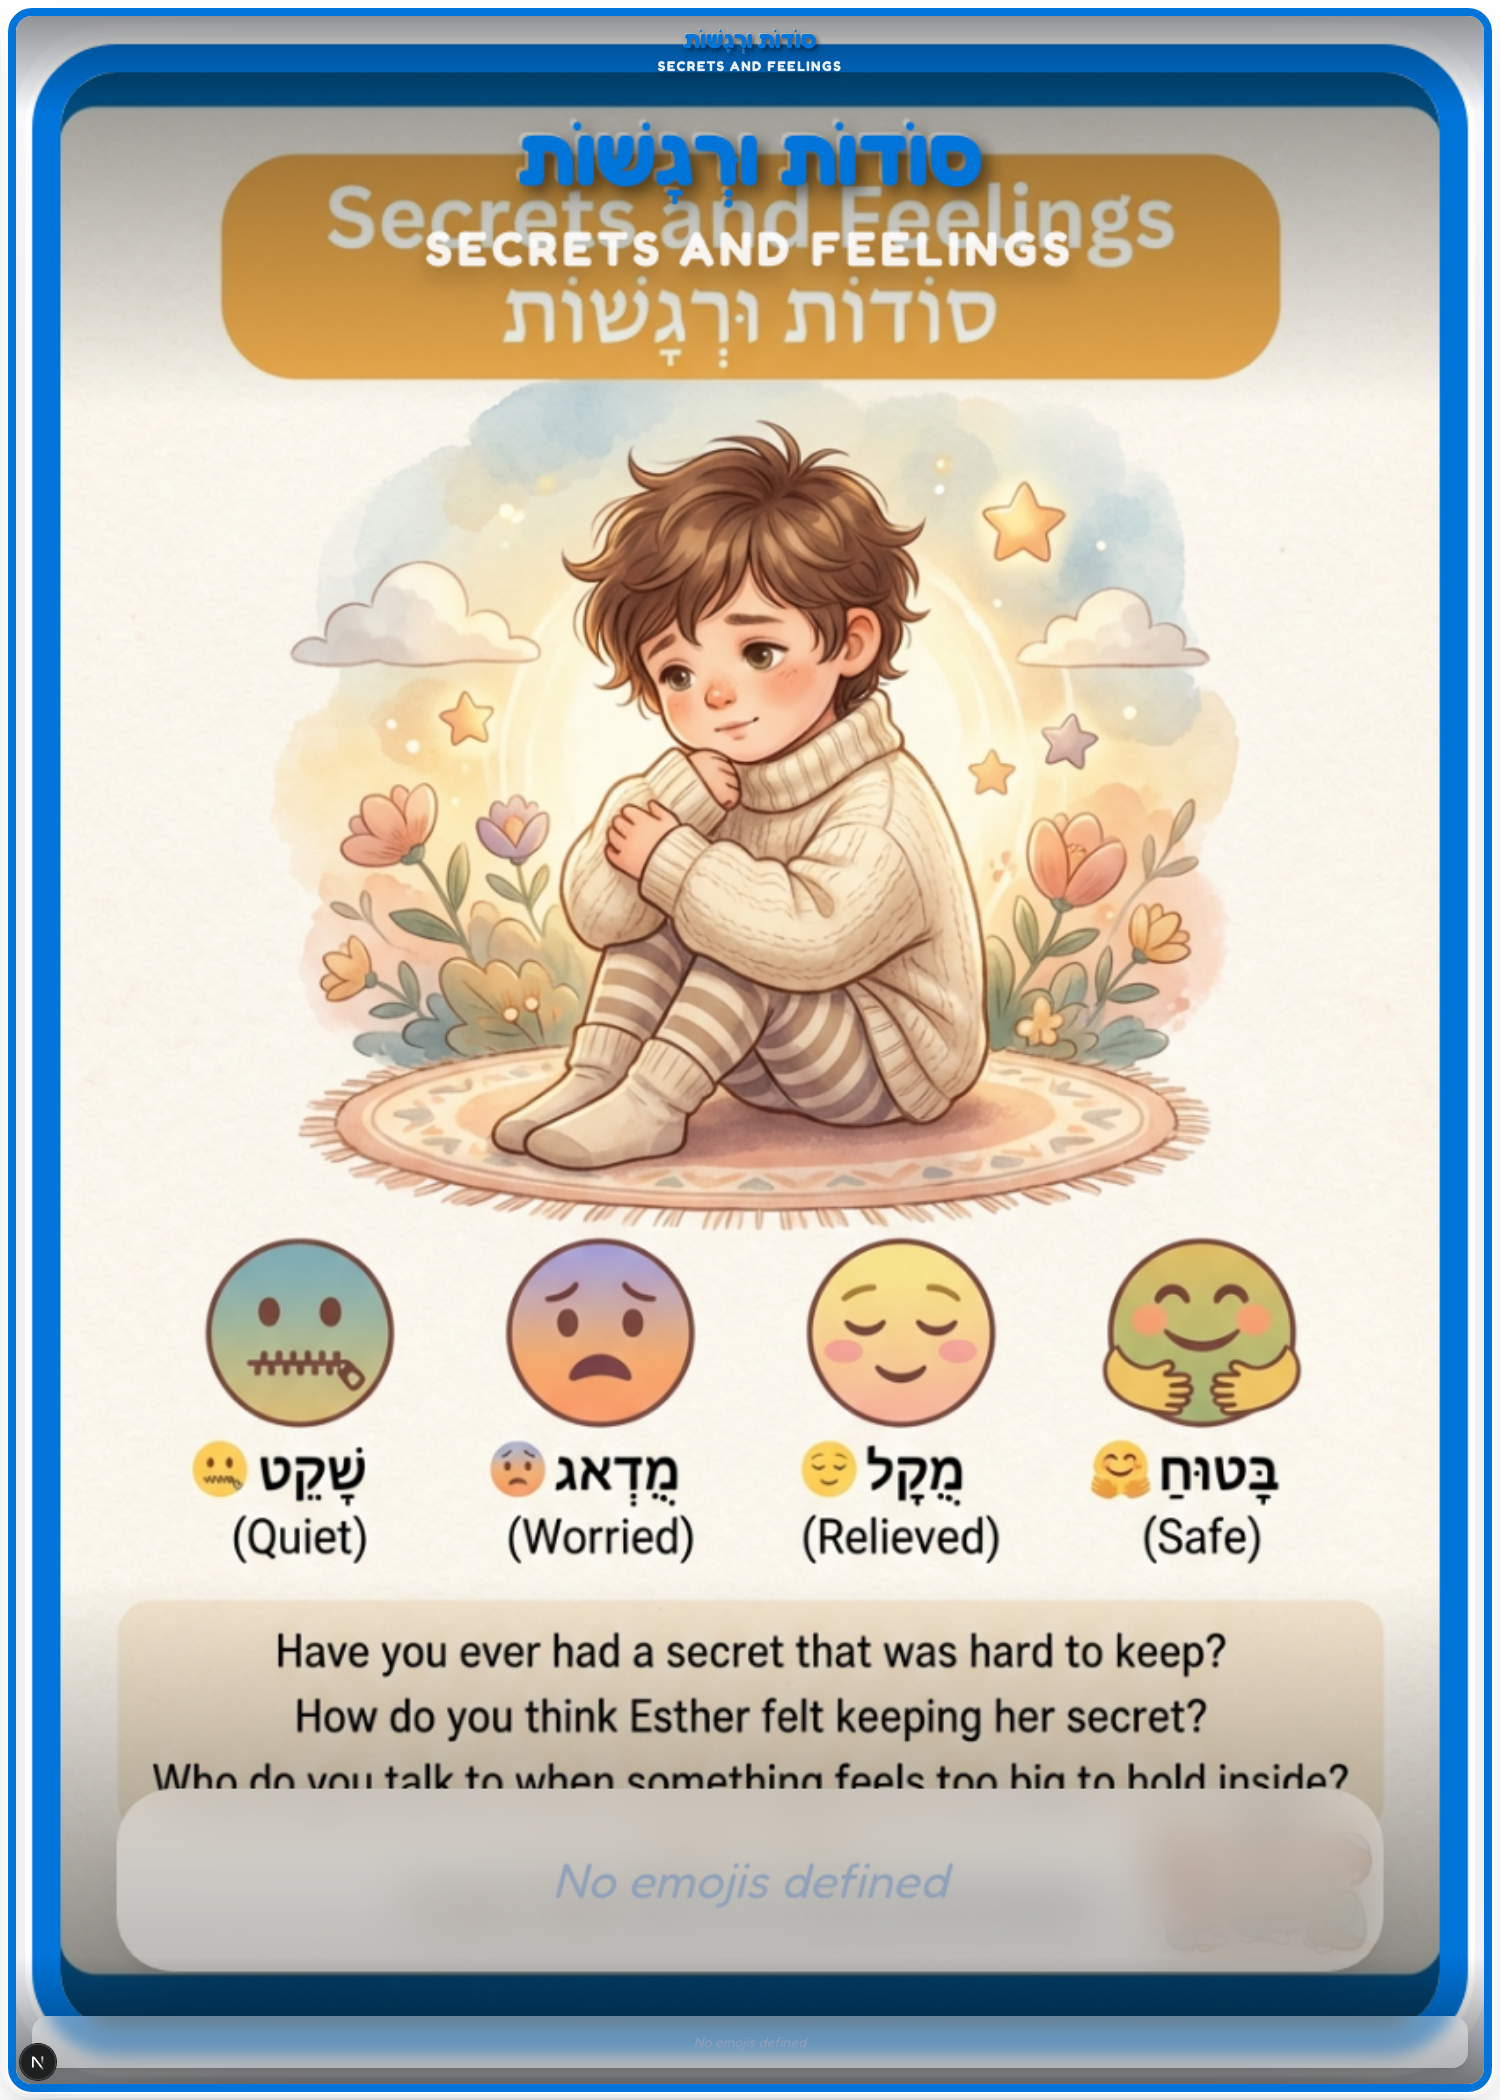
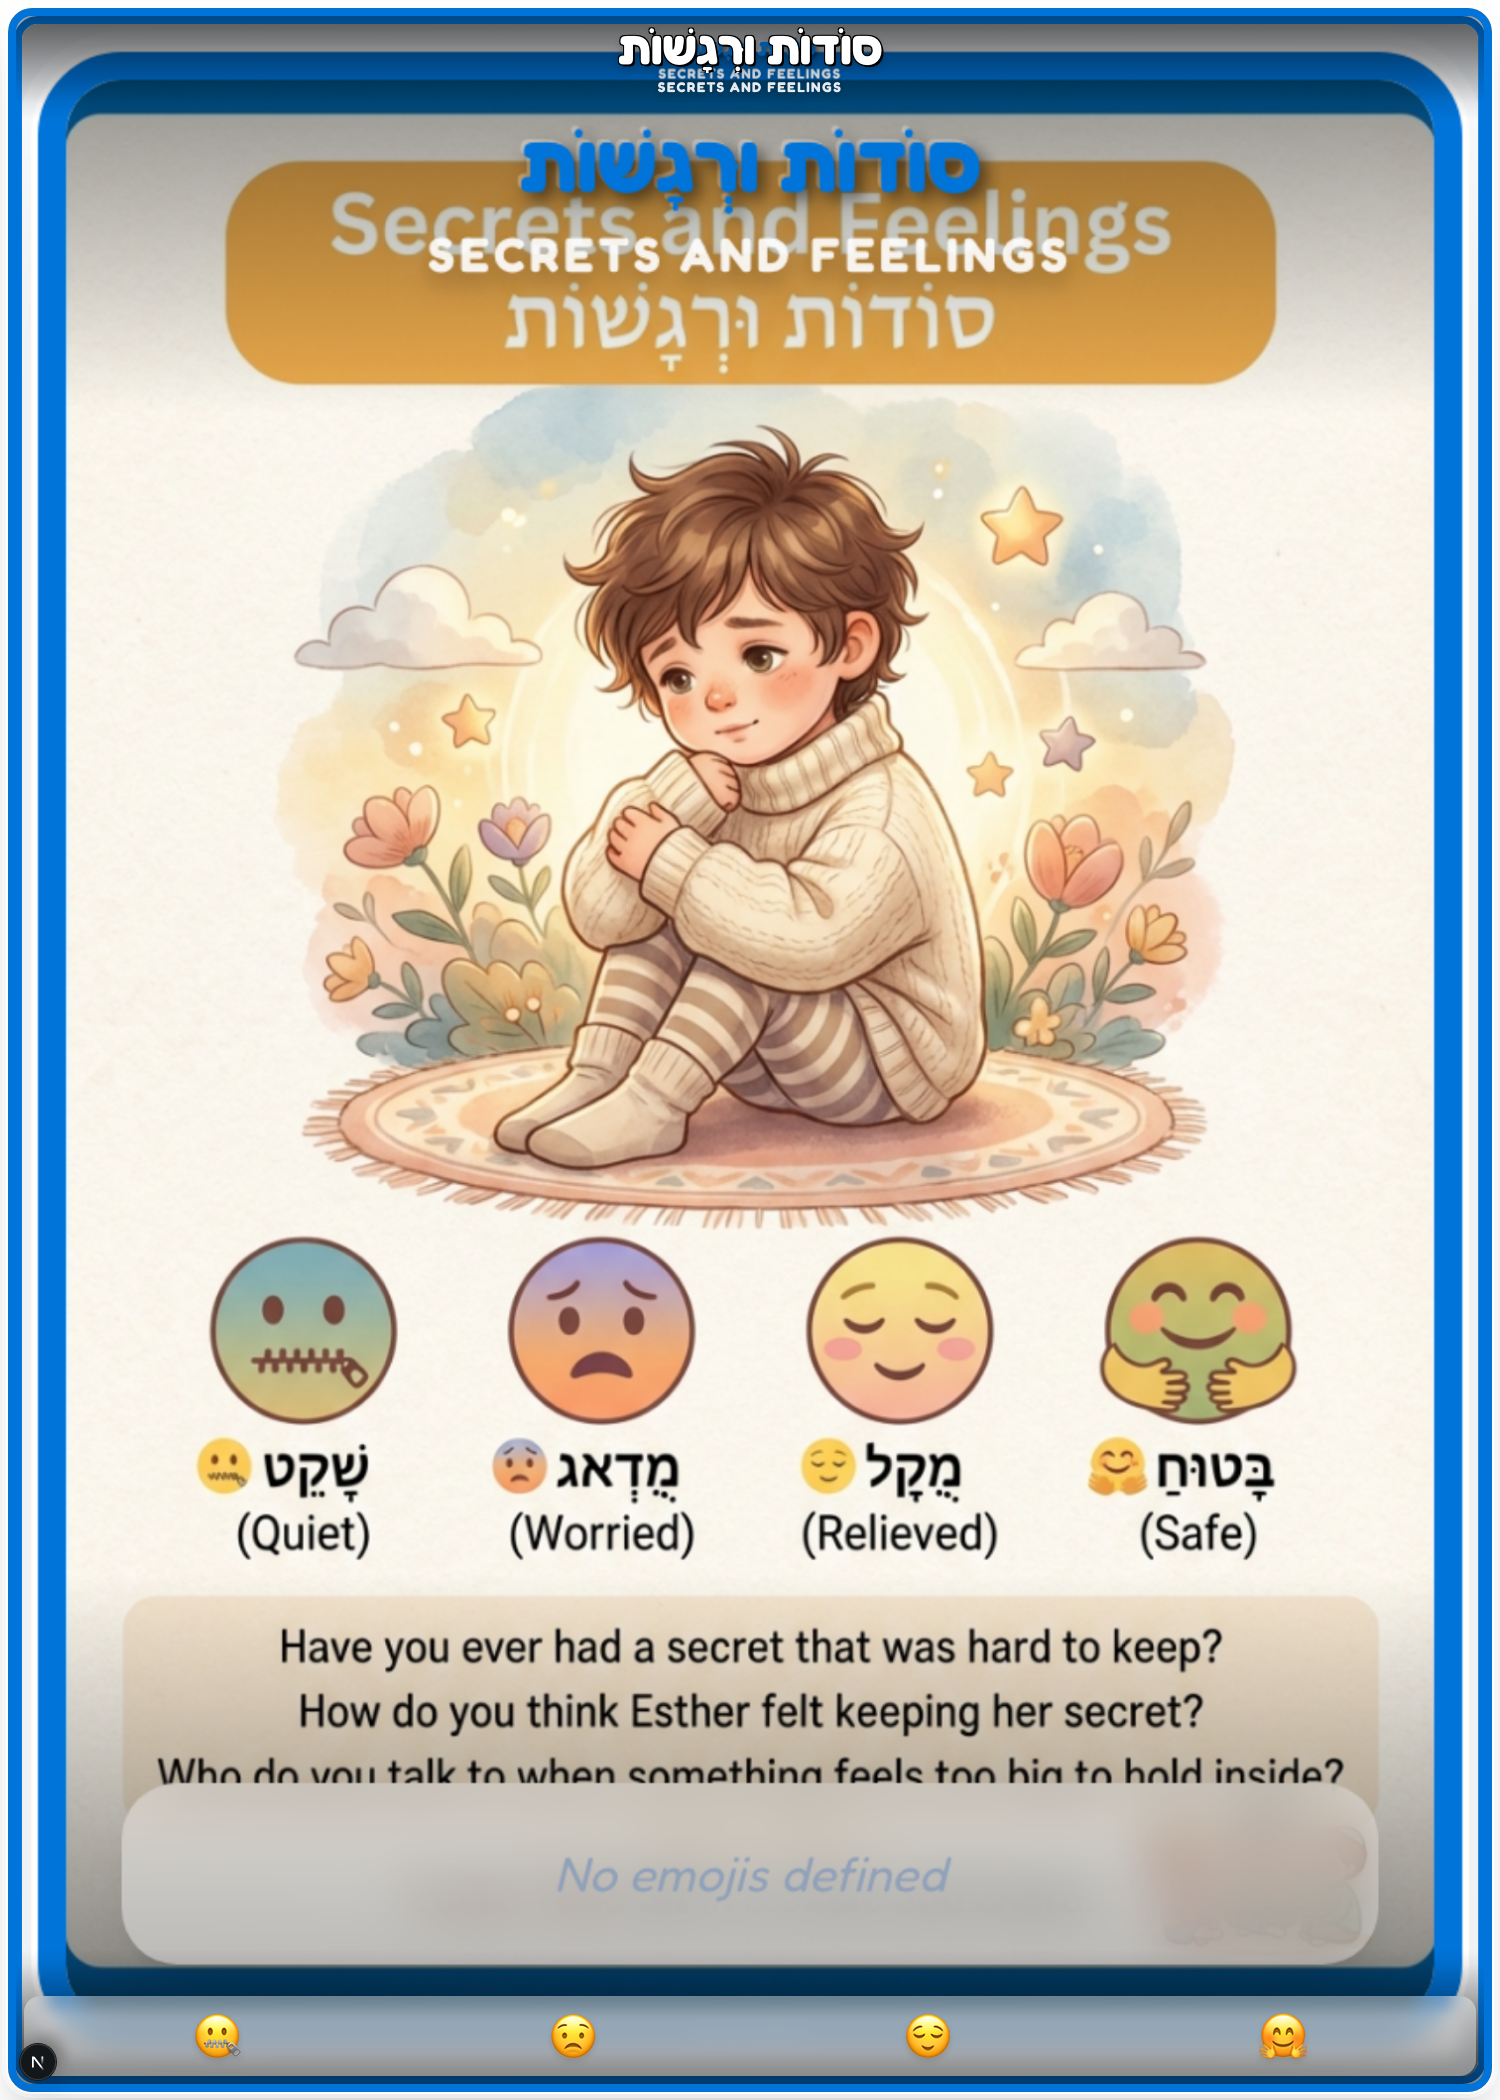
Refine card back layout, export Purim backs, reconcile documentation
Top-aligned sections with larger typography for print readability.
Exported all 16 backs + verified fronts. Updated AGENT_PIPELINE.md
and decks/CLAUDE.md with new back fields (teacher_tip, transition_line,
discussion_prompts, pronunciation_guide).

diff --git a/card-designer/components/cards/AnchorCardBack.tsx b/card-designer/components/cards/AnchorCardBack.tsx
@@ -32,16 +32,16 @@ export function AnchorCardBack({ card, deckName }: AnchorCardBackProps) {
         transitionLine={card.transition_line}
       >
         {/* Compact Title Line */}
-        <div className="flex items-center gap-3 mb-3">
-          <h2 className="text-xl font-bold text-slate-800 leading-tight">
+        <div className="flex items-center gap-3 mb-5">
+          <h2 className="text-2xl font-bold text-slate-800 leading-tight">
             {englishTitle}
           </h2>
           {hebrewTitle && (
-            <span className="font-hebrew text-lg text-slate-500">{hebrewTitle}</span>
+            <span className="font-hebrew text-xl text-slate-500">{hebrewTitle}</span>
           )}
         </div>
 
-        <div className="flex-1 flex flex-col gap-2.5 min-h-0">
+        <div className="flex flex-col gap-4">
           {/* SAY THIS - Teacher Script */}
           <BackSection
             icon="💬"
@@ -61,7 +61,7 @@ export function AnchorCardBack({ card, deckName }: AnchorCardBackProps) {
               tintColor={`${borderColor}10`}
             >
               <p className="text-slate-700 font-medium italic">
-                Read aloud: "{card.emotional_hook_en}"
+                Read aloud: &ldquo;{card.emotional_hook_en}&rdquo;
               </p>
             </BackSection>
           )}

diff --git a/card-designer/components/cards/StoryCardBack.tsx b/card-designer/components/cards/StoryCardBack.tsx
@@ -30,13 +30,13 @@ export function StoryCardBack({ card, deckName }: StoryCardBackProps) {
         transitionLine={card.transition_line}
       >
         {/* Compact Title Line with Sequence Badge */}
-        <div className="flex items-center justify-between mb-3">
-          <h2 className="text-xl font-bold text-slate-800 leading-tight">
+        <div className="flex items-center justify-between mb-5">
+          <h2 className="text-2xl font-bold text-slate-800 leading-tight">
             {card.title_en}
           </h2>
           {card.sequence_number && (
             <span
-              className="w-9 h-9 rounded-full flex items-center justify-center text-white font-bold text-base flex-shrink-0"
+              className="w-10 h-10 rounded-full flex items-center justify-center text-white font-bold text-lg flex-shrink-0"
               style={{ backgroundColor: borderColor }}
             >
               #{card.sequence_number}
@@ -44,7 +44,7 @@ export function StoryCardBack({ card, deckName }: StoryCardBackProps) {
           )}
         </div>
 
-        <div className="flex-1 flex flex-col gap-2.5 min-h-0">
+        <div className="flex flex-col gap-4">
           {/* SAY THIS - Teacher Script */}
           <BackSection
             icon="💬"

diff --git a/card-designer/components/cards/TraditionCardBack.tsx b/card-designer/components/cards/TraditionCardBack.tsx
@@ -33,21 +33,21 @@ export function TraditionCardBack({ card, deckName }: TraditionCardBackProps) {
         transitionLine={card.transition_line}
       >
         {/* Compact Title Line with Hebrew Term */}
-        <div className="flex items-center justify-between mb-3">
-          <h2 className="text-xl font-bold text-slate-800 leading-tight">
+        <div className="flex items-center justify-between mb-5">
+          <h2 className="text-2xl font-bold text-slate-800 leading-tight">
             {englishTitle}
           </h2>
           {hebrewTerm && (
-            <span className="font-hebrew text-lg font-bold text-slate-600">
+            <span className="font-hebrew text-xl font-bold text-slate-600">
               {hebrewTerm}
               {termMeaning && (
-                <span className="text-sm font-normal text-slate-400 ml-1">({termMeaning})</span>
+                <span className="text-base font-normal text-slate-400 ml-1">({termMeaning})</span>
               )}
             </span>
           )}
         </div>
 
-        <div className="flex-1 flex flex-col gap-2.5 min-h-0">
+        <div className="flex flex-col gap-4">
           {/* SAY THIS - Teacher Script */}
           <BackSection
             icon="💬"

diff --git a/card-designer/components/cards/SpotlightCardBack.tsx b/card-designer/components/cards/SpotlightCardBack.tsx
@@ -41,13 +41,13 @@ export function SpotlightCardBack({ card, deckName }: SpotlightCardBackProps) {
         transitionLine={card.transition_line}
       >
         {/* Compact Title Line with Emotion Badge */}
-        <div className="flex items-center justify-between mb-3">
-          <h2 className="text-xl font-bold text-slate-800 leading-tight">
+        <div className="flex items-center justify-between mb-5">
+          <h2 className="text-2xl font-bold text-slate-800 leading-tight">
             {englishName}
           </h2>
           {emotionEn && (
             <span
-              className="px-3 py-1 rounded-full text-white text-xs font-bold uppercase tracking-wide"
+              className="px-3 py-1 rounded-full text-white text-sm font-bold uppercase tracking-wide"
               style={{ backgroundColor: borderColor }}
             >
               {emotionEn}
@@ -55,7 +55,7 @@ export function SpotlightCardBack({ card, deckName }: SpotlightCardBackProps) {
           )}
         </div>
 
-        <div className="flex-1 flex flex-col gap-2.5 min-h-0">
+        <div className="flex flex-col gap-4">
           {/* SAY THIS - Teacher Script */}
           <BackSection
             icon="💬"

diff --git a/card-designer/components/cards/PowerWordCardBack.tsx b/card-designer/components/cards/PowerWordCardBack.tsx
@@ -32,18 +32,18 @@ export function PowerWordCardBack({ card, deckName }: PowerWordCardBackProps) {
         transitionLine={card.transition_line}
       >
         {/* Compact Title Line with Hebrew Word + Meaning */}
-        <div className="flex items-center justify-between mb-3">
-          <h2 className="text-xl font-bold text-slate-800 leading-tight">
+        <div className="flex items-center justify-between mb-5">
+          <h2 className="text-2xl font-bold text-slate-800 leading-tight">
             {card.title_en}
           </h2>
           {hebrewWord && (
-            <span className="font-hebrew text-2xl font-bold text-slate-700">
+            <span className="font-hebrew text-3xl font-bold text-slate-700">
               {hebrewWord}
             </span>
           )}
         </div>
 
-        <div className="flex-1 flex flex-col gap-2.5 min-h-0">
+        <div className="flex flex-col gap-4">
           {/* SAY THIS - Teacher Script */}
           <BackSection
             icon="💬"

diff --git a/card-designer/components/cards/BackSection.tsx b/card-designer/components/cards/BackSection.tsx
@@ -32,17 +32,17 @@ export function BackSection({
       }}
     >
       {/* Section Header */}
-      <div className="flex items-center gap-2 px-3 pt-2.5 pb-1">
-        <span className="text-base leading-none">{icon}</span>
+      <div className="flex items-center gap-2 px-5 pt-4 pb-1">
+        <span className="text-lg leading-none">{icon}</span>
         <span
-          className="font-bold text-xs uppercase tracking-wider"
+          className="font-bold text-sm uppercase tracking-wider"
           style={{ color: borderColor }}
         >
           {label}
         </span>
       </div>
       {/* Section Content */}
-      <div className={`px-3 pb-2.5 ${large ? 'text-lg leading-relaxed' : 'text-base leading-relaxed'}`}>
+      <div className={`px-5 pb-4 ${large ? 'text-xl leading-relaxed' : 'text-lg leading-relaxed'}`}>
         {children}
       </div>
     </div>

diff --git a/card-designer/components/cards/ConnectionCardBack.tsx b/card-designer/components/cards/ConnectionCardBack.tsx
@@ -32,13 +32,13 @@ export function ConnectionCardBack({ card, deckName }: ConnectionCardBackProps) 
         transitionLine={card.transition_line}
       >
         {/* Compact Title Line */}
-        <div className="mb-3">
-          <h2 className="text-xl font-bold text-slate-800 leading-tight">
+        <div className="mb-5">
+          <h2 className="text-2xl font-bold text-slate-800 leading-tight">
             {card.title_en}
           </h2>
         </div>
 
-        <div className="flex-1 flex flex-col gap-2.5 min-h-0">
+        <div className="flex flex-col gap-4">
           {/* SAY THIS - Torah Talk Instruction + Teacher Script */}
           <BackSection
             icon="💬"

diff --git a/decks/CLAUDE.md b/decks/CLAUDE.md
@@ -93,6 +93,9 @@ This creates:
   "image_prompt": "A golden crown sitting on a royal purple velvet cushion...",
   "image_path": "raw/anchor_1.png",
   "teacher_script": "Gather children in a circle...",
+  "teacher_tip": "Have children close their eyes while you describe the crown.",
+  "transition_line": "Now let's meet the characters in our story!",
+  "discussion_prompts": ["What do you think a queen's secret could be?", "When have you had a really big feeling inside?"],
   "session": 1
 }
 ```
@@ -115,6 +118,9 @@ This creates:
   "image_prompt": "Character portrait of Esther...",
   "image_path": "raw/spotlight_1.png",
   "teacher_script": "This is Queen Esther!...",
+  "teacher_tip": "Ask children to show you a brave face, then a nervous face.",
+  "transition_line": "Let's meet another important person in our story!",
+  "discussion_prompts": ["What do you notice about how Esther looks?", "Have you ever kept something special about yourself quiet?"],
   "session": 1
 }
 ```
@@ -136,6 +142,9 @@ This creates:
   "image_prompt": "Esther in the palace throne room...",
   "image_path": "raw/story_1.png",
   "teacher_script": "The king needed a new queen...",
+  "teacher_tip": "Whisper 'shhh' when you mention the secret — children love the dramatic effect.",
+  "transition_line": "Let's find out what happens next!",
+  "discussion_prompts": ["How would it feel to live in a beautiful palace?", "What would be hard about keeping a really big secret?"],
   "session": 1
 }
 ```
@@ -164,9 +173,13 @@ This creates:
   "image_prompt": "Children sitting in a circle on a colorful rug...",
   "image_path": "raw/connection_1.png",
   "teacher_script": "Let's talk about being brave...",
+  "teacher_tip": "Share your own brave moment first to model vulnerability.",
+  "transition_line": "You are all so brave for sharing!",
   "session": 2
 }
 ```
+
+Note: Connection cards do NOT have `discussion_prompts` — they use `questions[]` instead.
 
 ### Tradition Card (3 per holiday deck)
 ```json
@@ -187,6 +200,9 @@ This creates:
   "image_prompt": "Warm golden scene of families packing colorful baskets...",
   "image_path": "raw/tradition_1.png",
   "teacher_script": "On Purim, we give gifts to friends...",
+  "teacher_tip": "Have small baskets or bags ready for children to practice packing.",
+  "transition_line": "There's another special Purim tradition to discover!",
+  "discussion_prompts": ["Who would you like to give a gift basket to?", "How does it feel when someone gives you a surprise gift?"],
   "session": 2
 }
 ```
@@ -209,6 +225,10 @@ This creates:
   "image_prompt": "Esther standing tall in the throne room...",
   "image_path": "raw/power_word_1.png",
   "teacher_script": "Let's learn a special Hebrew word...",
+  "teacher_tip": "Have children repeat 'I am a gibor!' three times, louder each time.",
+  "transition_line": "Now you know an amazing Hebrew word!",
+  "discussion_prompts": ["Who is a gibor in your life?", "What is one brave thing you could do this week?"],
+  "pronunciation_guide": "Gee-BOR. Rhymes with 'dinosaur'!",
   "session": 2
 }
 ```

diff --git a/agents/AGENT_PIPELINE.md b/agents/AGENT_PIPELINE.md
@@ -95,6 +95,10 @@ This document defines the agent pipeline for creating card decks. Each agent has
 
 - All card content with `card_id` matching structure
 - `teacher_script` for each card
+- `teacher_tip` for each card (1 actionable sentence)
+- `transition_line` for each card (thematic, reusable)
+- `discussion_prompts` for each card except connection (2 open-ended questions)
+- `pronunciation_guide` for power_word cards (syllable breakdown + rhymes-with)
 - `roleplay_prompt` for story cards
 - `questions` array for connection cards (no numbering!)
 
